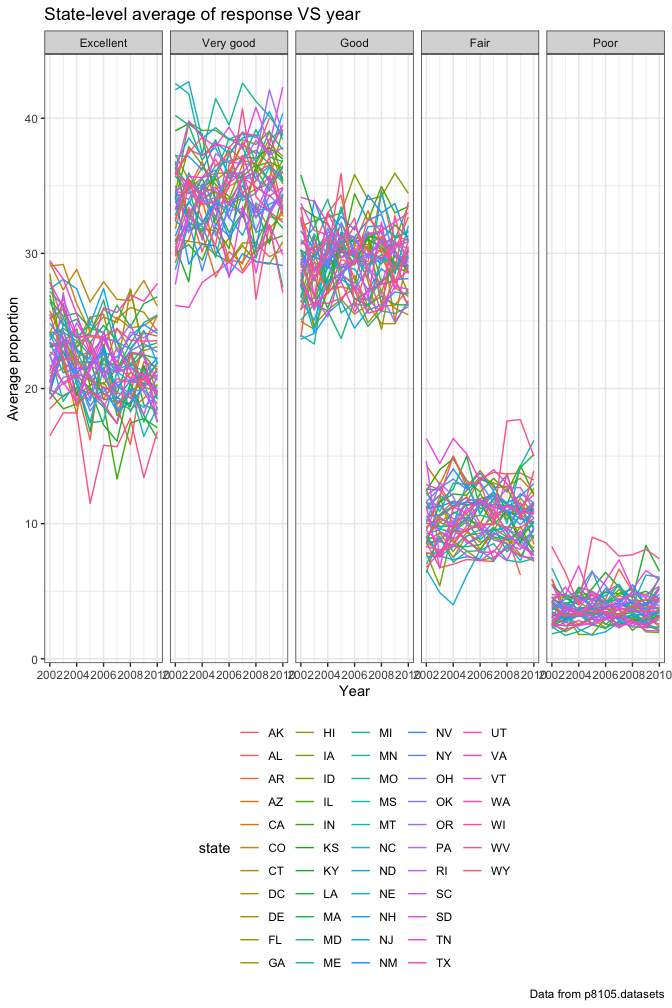
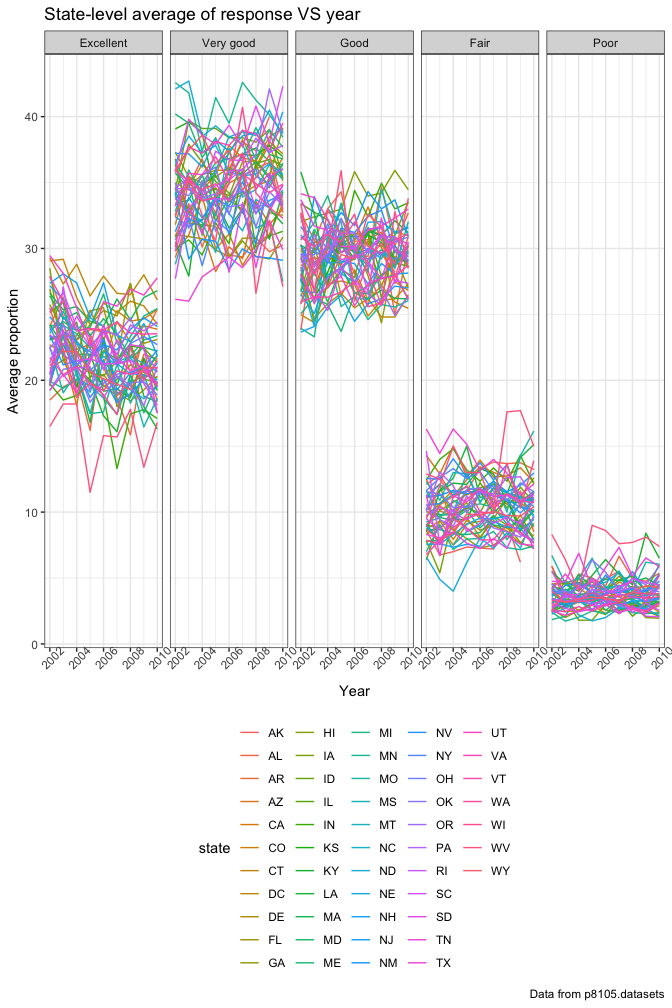
problem 3

diff --git a/p8105_hw3_sl4471.md b/p8105_hw3_sl4471.md
@@ -103,7 +103,8 @@ ggplot(avearge_proportion_df, aes(x = year, y = mean, color = state)) +
     y = "Average proportion",
     caption = "Data from p8105.datasets") +
   theme_bw() +
-  theme(legend.position = "bottom")
+  theme(legend.position = "bottom") +
+  theme(axis.text.x = element_text(angle = 45))
 ```
 
 <img src="p8105_hw3_sl4471_files/figure-markdown_github/average_distribution-1.png" width="90%" />
@@ -445,4 +446,108 @@ ny_noaa_tidy %>%
 
 Because the unit of "prcp" is "tenths of mm", the units of "tmax" and "tmin" are "tenths of degrees C", I change the unit more reasonable.
 
-The most commonly observed value of snowfall is 0.
+The most commonly observed value of snowfall is 0. Snowfall only takes place in winter, so for the most time of a year it would not happen.
+
+3.3 The plots
+-------------
+
+``` r
+ny_noaa_meantmax = 
+  ny_noaa_tidy %>% 
+  select(id, year, month, tmax) %>% 
+  filter(month %in% c("01", "07")) %>% 
+  mutate(month = recode(month, `01` = "January", `07` = "July")) %>% 
+  group_by(id, month) %>% 
+  summarize(tmax_mean = mean(tmax, na.rm = TRUE))
+
+ggplot(ny_noaa_meantmax, aes(y = tmax_mean)) +
+  geom_boxplot() +
+  facet_grid(~month) +
+  labs(
+    title = "The average max temperature in January and in July across years",
+    y = "The average max temperature(ºC)",
+    caption = "Data from the p8105.datasets"
+  ) +
+    theme_bw()
+```
+
+    ## Warning: Removed 876 rows containing non-finite values (stat_boxplot).
+
+<img src="p8105_hw3_sl4471_files/figure-markdown_github/average_max_temperature-1.png" width="90%" />
+
+We can use "boxplot.stats()" function to check the outliers.
+
+``` r
+ny_noaa_meantmax %>%
+  filter(month == "January") %>% 
+  .$tmax_mean %>% 
+  boxplot.stats()
+```
+
+    ## $stats
+    ## [1] -5.3903226 -1.8875793 -0.3038384  1.0051869  4.9876712
+    ## 
+    ## $n
+    ## [1] 231
+    ## 
+    ## $conf
+    ## [1] -0.604559857 -0.003116911
+    ## 
+    ## $out
+    ## [1]  -9.983721  -8.021429   5.666129 -12.200000
+
+``` r
+ny_noaa_meantmax %>%
+  filter(month == "July") %>% 
+  .$tmax_mean %>% 
+  boxplot.stats()
+```
+
+    ## $stats
+    ## [1] 23.78791 26.14649 27.02672 27.88443 30.44452
+    ## 
+    ## $n
+    ## [1] 229
+    ## 
+    ## $conf
+    ## [1] 26.84526 27.20818
+    ## 
+    ## $out
+    ## [1] 23.51538 23.51621 23.33546 31.47204 22.41384 23.53814
+
+Make a two-panel plot showing (i) tmax vs tmin for the full dataset (note that a scatterplot may not be the best option); and (ii) make a plot showing the distribution of snowfall values greater than 0 and less than 100 separately by year.
+
+``` r
+tmax_tmin = 
+  ggplot(ny_noaa_tidy, aes(x = tmax, y = tmin)) + 
+  geom_hex() +
+  labs(
+    title = "tmax VS tmin for the full dataset",
+    x = "Maxiumum daily temperature (ºC)",
+    y = "Minimum daily temperature (ºC)",
+    caption = "Data from the p8105.datasets"
+  ) +
+  viridis::scale_color_viridis(discrete = TRUE) +
+  theme_bw() +
+  theme(legend.position = "right") 
+
+distribution_snow =
+  ny_noaa_tidy %>% 
+  filter(snow > 0, snow < 100) %>% 
+  ggplot(aes(x = year, y = snow)) + 
+  geom_boxplot() +
+  labs(
+    title = "The distribution of snowfall values greater than 0 and less than 100",
+    x = "Year",
+    y = "Snowfall value",
+    caption = "Data from the p8105.datasets"
+  ) +
+  theme_bw() +
+  theme(axis.text.x = element_text(angle = 45))
+
+(tmax_tmin)/(distribution_snow)
+```
+
+    ## Warning: Removed 1136276 rows containing non-finite values (stat_binhex).
+
+<img src="p8105_hw3_sl4471_files/figure-markdown_github/two_panel_plot-1.png" width="90%" />
